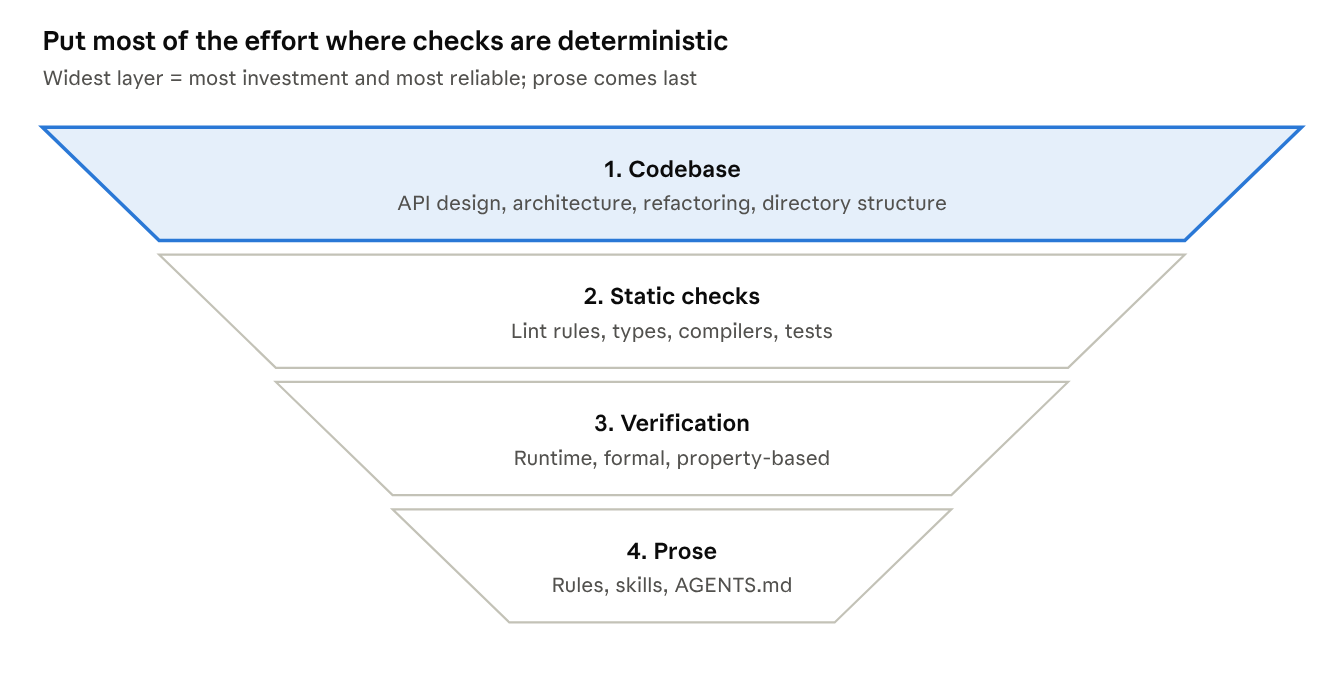
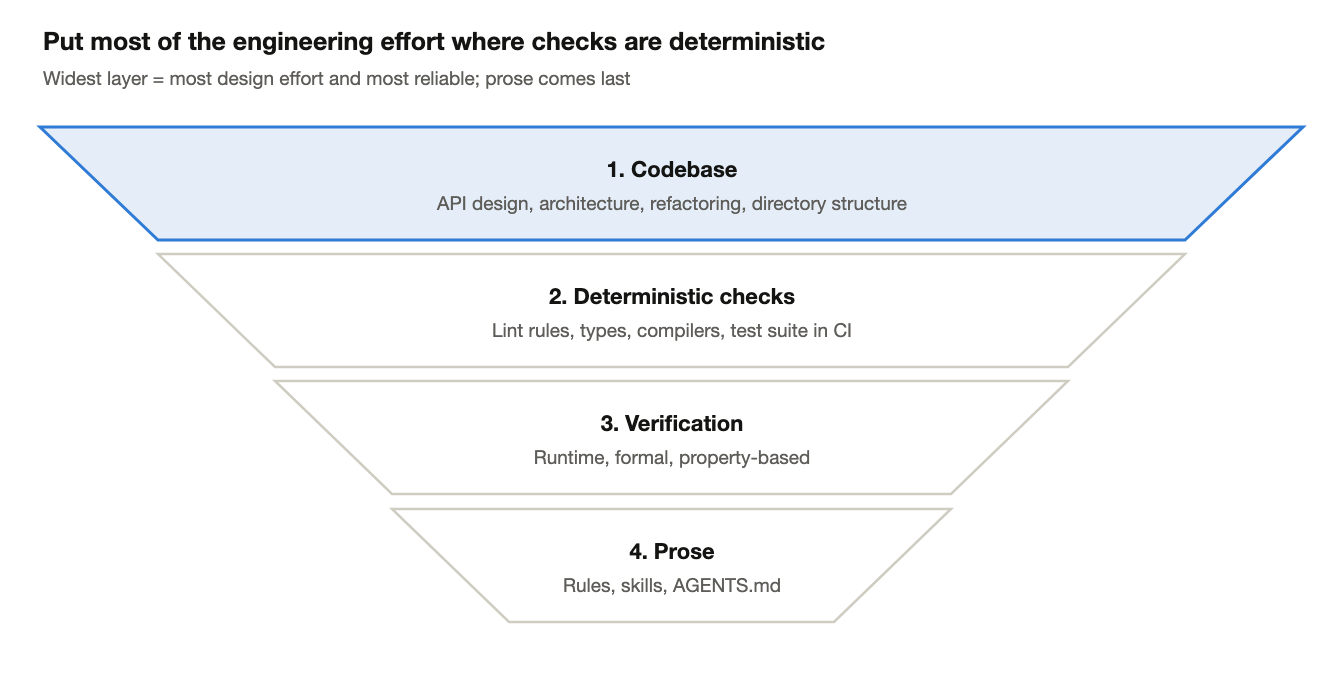
Separate effort from token spend, rename Layer 2 to deterministic checks
- Explain that pyramid width is engineering effort, not tokens
- Rename Layer 2 and split the roles of tests between Layers 2 and 3
- Redraw the pyramid image to match

diff --git a/README.md b/README.md
@@ -18,9 +18,11 @@ Source: ["All Code Is Slop (Except Mine)"](https://www.youtube.com/watch?v=O_zcc
 
 Trust here is not blind faith. It is investment in the agent's environment until you can count on it to do the right thing by default. The speaker ranks where to spend that investment as an inverted pyramid.
 
-![The trust pyramid: codebase, static checks, verification and prose, from widest to narrowest](trust-pyramid.png)
+![The trust pyramid: codebase, deterministic checks, verification and prose, from widest to narrowest](trust-pyramid.png)
 
 Layers 1 and 2 constrain agents in code, so the right thing is the default. Layer 3 finds bugs and checks the agent understood your intent. Layer 4 covers only what needs judgment.
+
+A layer's width is the engineering effort you put into it, not the tokens it uses. Layer 1 takes the most design work. Layer 3 uses the most tokens, because agents run verification on every change (see Layer 3).
 
 ## Layer 1: Treat the codebase as a garden
 
@@ -42,15 +44,17 @@ Code used to arrive a few PRs at a time (3 to review in 2024); now it is closer 
 
 Put these constraints where every change passes through them: a shared framework, core modules or a project template. In the talk they live in an in-house framework, Dune, which is technically ordinary. Its value is the lessons it encodes.
 
-## Layer 2: Turn every correction into a static check
+## Layer 2: Turn every correction into a deterministic check
 
 The rule: each time you correct an agent, ask how to make that correction impossible to repeat. A check in code is reproducible; a line in a rules file is a hope.
 
 - **Lint rules** for banned APIs, banned imports and anti-patterns. They are cheap to write and remove one item from code review forever.
 - **Error messages that teach.** A good lint error tells the agent to fix the root cause, not to patch around it. The agent reads the error at the moment it matters.
 - **Type systems, compilers, dependency-graph analysis** to make wrong code fail to build.
-- **Tests of every kind** as the safety net under all of it.
+- **The test suite in CI**: fast, repeatable tests that must pass before any merge, as the safety net under all of it.
 - **Ratchet, then clean up.** Add the rule to block new occurrences first, then remove the old ones so agents stop copying them.
+
+Tests appear in both Layer 2 and Layer 3. They do different jobs. Layer 2 is the suite that runs on every change and blocks the merge: it stops known mistakes from coming back. Layer 3 is the work the agent does to prove a new change does what you meant: running the software, exploring it, writing new property-based or formal checks. Once such a check is written and fast enough, it joins the Layer 2 suite.
 
 Do this enough times and the list of things to look for in review shrinks to nothing. At that point agents can merge most of their own PRs.
 
@@ -81,7 +85,7 @@ Do not disable this rule or add a comment to justify an exception.
 
 ## Layer 3: Verify, and review the evidence instead of the diff
 
-Verification is where most tokens end up going. One engineer cited in the talk moved from not trusting agents (subtle bugs merged) to spending about 70% of daily tokens on verification. The speaker sees the same split.
+Verification is where most tokens end up going, even though Layer 1 takes most of the engineering effort. One engineer cited in the talk moved from not trusting agents (subtle bugs merged) to spending about 70% of daily tokens on verification. The speaker sees the same split.
 
 None of these techniques are new. They used to be too expensive to write and maintain; agents make them cheap. That is why this is a golden age for testing.
 
